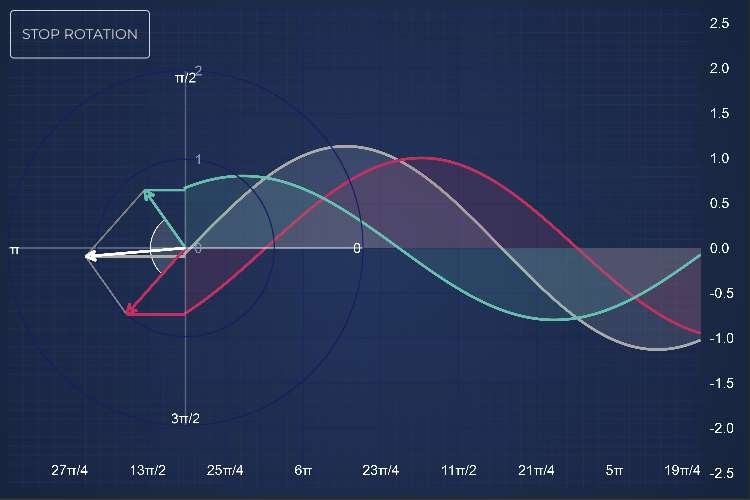
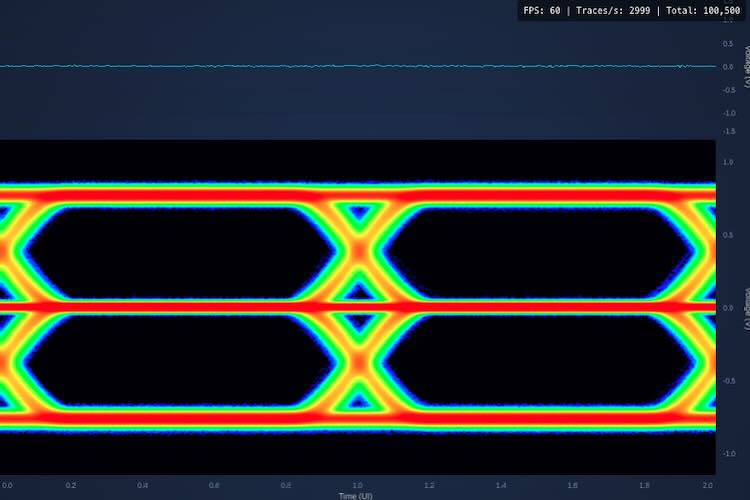
feat(example): add live waveform panel above eye diagram heatmap
Refactor eye diagram from a single heatmap to a two-panel layout using
SciChartSubSurface. The top 28% shows the most recent trace as a cyan
FastLineRenderableSeries; the bottom 72% retains the accumulating
UniformHeatmapRenderableSeries. Uses createSingle + createSubSurface to
share a single wasmContext, avoiding multi-surface init complexity.

Also adds per-trace amplitude scaling, DC offset, and independent
per-edge rise time variation for more realistic oscilloscope fuzz.
Update docs, markdown content, and preview screenshot accordingly.

diff --git a/Examples/src/components/Examples/FeaturedApps/ScientificCharts/EyeDiagramChart/exampleInfo.tsx b/Examples/src/components/Examples/FeaturedApps/ScientificCharts/EyeDiagramChart/exampleInfo.tsx
@@ -19,7 +19,7 @@ const metaData: IExampleMetadata =
                 metaDescription:
                     "See a real-time Eye Diagram rendered with SciChart.js. Simulates an MLT-3 signal — thousands of waveform traces accumulate into a heatmap density grid — like a real oscilloscope persistence display.",
                 markdownContent:
-                    "## Real-time Eye Diagram - JavaScript\n\n### Overview\nThis example demonstrates a **real-time Eye Diagram** (persistence display) using SciChart.js in JavaScript. An eye diagram is the standard tool for evaluating signal integrity in high-speed serial data links — it is produced by overlaying thousands of short waveform segments on a shared time axis, revealing the eye opening, jitter, noise, and inter-symbol interference (ISI) of the signal. This demo simulates an **MLT-3 (Multi-Level Transmit 3)** signal, the line code used in 100BASE-TX Ethernet, which cycles through three voltage levels (+1 V, 0 V, −1 V) to produce **two stacked eye openings** per display window.\n\n### Technical Implementation\nThe chart uses [SciChartSurface.create()](https://www.scichart.com/documentation/js/v5/2d-charts/surface/new-scichart-surface/#scichartsurfacecreate) to initialise the surface. Each animation frame, 50 simulated MLT-3 traces are generated with a four-state voltage machine, raised-cosine edge shaping (spanning ~35% of one UI — matching real 100BASE-TX rise time), per-crossing timing jitter (Gaussian, σ = 4 samples ≈ 2% UI), and Gaussian amplitude noise (σ = 0.012 V). Three crossing edges are placed at t = 0, t = 1 UI, and t = 2 UI. Trace samples are binned into a **400 × 200 accumulation grid** and passed to [UniformHeatmapDataSeries.setZValues()](https://www.scichart.com/documentation/js/v5/2d-charts/chart-types/uniform-heatmap-renderable-series/uniform-heatmap-chart-type/) each frame — a single WebGL texture upload regardless of how many traces have accumulated.\n\n### Features and Capabilities\nThe [UniformHeatmapRenderableSeries](https://www.scichart.com/documentation/js/v5/2d-charts/chart-types/uniform-heatmap-renderable-series/uniform-heatmap-chart-type/) renders the density grid with a custom [HeatmapColorMap](https://www.scichart.com/documentation/js/v5/2d-charts/chart-types/uniform-heatmap-renderable-series/uniform-heatmap-chart-type/) using an oscilloscope thermal palette (black → dark blue → cyan → green → yellow → red) that produces the classic scope persistence glow. A `log1p` scale keeps sparse edges visible while saturating the hot centre. A live stats overlay shows FPS, traces/second, and total accumulated traces.\n\n### Integration and Best Practices\nThe implementation uses a `requestAnimationFrame` loop with a clean start/stop/cleanup API. Resource cleanup (cancelling the rAF loop, removing the DOM overlay, calling `sciChartSurface.delete()`) is encapsulated in a single `cleanup()` function returned from `drawExample`, following the pattern used across all SciChart.js examples.",
+                    "## Real-time Eye Diagram - JavaScript\n\n### Overview\nThis example demonstrates a **real-time Eye Diagram** (persistence display) using SciChart.js in JavaScript. An eye diagram is the standard tool for evaluating signal integrity in high-speed serial data links — it is produced by overlaying thousands of short waveform segments on a shared time axis, revealing the eye opening, jitter, noise, and inter-symbol interference (ISI) of the signal. This demo simulates an **MLT-3 (Multi-Level Transmit 3)** signal, the line code used in 100BASE-TX Ethernet, which cycles through three voltage levels (+1 V, 0 V, −1 V) to produce **two stacked eye openings** per display window.\n\n### Technical Implementation\nThe layout uses [SciChartSurface.createSingle()](https://www.scichart.com/documentation/js/v5/2d-charts/surface/new-scichart-surface/#scichartsurfacecreatesingle) with two sub-charts created via `SciChartSubSurface.createSubSurface`. The top sub-chart (`Rect(0, 0, 1, 0.28)` relative) hosts a [FastLineRenderableSeries](https://www.scichart.com/documentation/js/v5/2d-charts/chart-types/line-chart/) showing the live waveform; the bottom sub-chart (`Rect(0, 0.28, 1, 0.72)`) hosts the [UniformHeatmapRenderableSeries](https://www.scichart.com/documentation/js/v5/2d-charts/chart-types/uniform-heatmap-renderable-series/uniform-heatmap-chart-type/) eye diagram. Both panels share a single `wasmContext`. Each animation frame, 50 simulated MLT-3 traces are generated with raised-cosine edge shaping (~35% of one UI), per-trace amplitude variation (σ = 2.5%) and DC offset (σ = 15 mV), independent per-edge timing jitter (σ = 4 samples ≈ 2% UI), and Gaussian amplitude noise (σ = 0.010 V). Trace samples are binned into a **400 × 200 accumulation grid** and passed to [UniformHeatmapDataSeries.setZValues()](https://www.scichart.com/documentation/js/v5/2d-charts/chart-types/uniform-heatmap-renderable-series/uniform-heatmap-chart-type/) each frame — a single WebGL texture upload regardless of how many traces have accumulated.\n\n### Features and Capabilities\nThe [UniformHeatmapRenderableSeries](https://www.scichart.com/documentation/js/v5/2d-charts/chart-types/uniform-heatmap-renderable-series/uniform-heatmap-chart-type/) renders the density grid with a custom [HeatmapColorMap](https://www.scichart.com/documentation/js/v5/2d-charts/chart-types/uniform-heatmap-renderable-series/uniform-heatmap-chart-type/) using an oscilloscope thermal palette (black → dark blue → cyan → green → yellow → red) that produces the classic scope persistence glow. A `log1p` scale keeps sparse edges visible while saturating the hot centre. Per-trace realism (amplitude scaling, DC offset, independent rise time variation) produces authentic oscilloscope fuzz at crossings and thick voltage rails. A live stats overlay shows FPS, traces/second, and total accumulated traces.\n\n### Integration and Best Practices\nThe implementation uses a `requestAnimationFrame` loop with a clean start/stop/cleanup API. Using `createSingle` with sub-charts instead of multiple `SciChartSurface.create` calls avoids WASM context conflicts and eliminates fragile DOM measurement for panel sizing. Resource cleanup (cancelling the rAF loop, removing the DOM overlay, calling `mainSurface.delete()`) is encapsulated in a single `cleanup()` function returned from `drawExample`, following the pattern used across all SciChart.js examples.",
             },
             react: {
                 subtitle:
@@ -29,7 +29,7 @@ const metaData: IExampleMetadata =
                 metaDescription:
                     "See a real-time Eye Diagram rendered with React and SciChart.js. Simulates an MLT-3 signal — thousands of waveform traces accumulate into a heatmap density grid — like a real oscilloscope persistence display.",
                 markdownContent:
-                    "## Real-time Eye Diagram - React\n\n### Overview\nThis React example demonstrates a **real-time Eye Diagram** (persistence display) built with SciChart.js. It simulates an **MLT-3 (Multi-Level Transmit 3)** serial data signal — the line code used in 100BASE-TX Ethernet — and renders the accumulating eye diagram as a 2D density heatmap, producing the oscilloscope persistence glow that signal-integrity engineers use to evaluate jitter, noise, and eye opening. MLT-3's three voltage levels (+1 V, 0 V, −1 V) create **two stacked eye openings** visible once enough traces have accumulated.\n\n### Technical Implementation\nThe chart initialises via `<SciChartReact initChart={drawExample}>` where `drawExample` creates a [UniformHeatmapDataSeries](https://www.scichart.com/documentation/js/v5/2d-charts/chart-types/uniform-heatmap-renderable-series/uniform-heatmap-chart-type/) backed by a 400 × 200 accumulation grid. Each frame, 50 MLT-3 traces (with raised-cosine transitions spanning ~35% of one UI, per-crossing timing jitter σ = 4 samples, and amplitude noise σ = 0.012 V) are generated and binned into the grid. The heatmap is updated via `setZValues()` — one GPU upload per frame. The `onDelete` prop calls `controls.cleanup()` which stops the animation loop and disposes the surface, following [React cleanup patterns for SciChart.js](https://www.scichart.com/documentation/js/v5/get-started/tutorials-react/tutorial-01-setting-up-project-with-scichart-react/).\n\n### Features and Capabilities\nA custom [HeatmapColorMap](https://www.scichart.com/documentation/js/v5/2d-charts/chart-types/uniform-heatmap-renderable-series/uniform-heatmap-chart-type/) using an oscilloscope thermal palette (black → dark blue → cyan → green → yellow → red) with `log1p` density scaling produces the classic scope persistence glow. A live overlay shows FPS, traces/second, and total accumulated traces. The animation starts immediately on mount and cleans up automatically on unmount.\n\n### Integration and Best Practices\nThe component is intentionally minimal — no React state is needed because the animation lifecycle is entirely managed by the `controls` object returned from `drawExample`. This pattern keeps the React wrapper decoupled from the SciChart initialisation logic and makes the same `drawExample` function reusable across React, Angular, and vanilla JavaScript targets.",
+                    "## Real-time Eye Diagram - React\n\n### Overview\nThis React example demonstrates a **real-time Eye Diagram** (persistence display) built with SciChart.js. It simulates an **MLT-3 (Multi-Level Transmit 3)** serial data signal — the line code used in 100BASE-TX Ethernet — and renders two panels: a live waveform line chart on top and an accumulating 2D density heatmap on the bottom, producing the oscilloscope persistence glow that signal-integrity engineers use to evaluate jitter, noise, and eye opening. MLT-3's three voltage levels (+1 V, 0 V, −1 V) create **two stacked eye openings** visible once enough traces have accumulated.\n\n### Technical Implementation\nThe chart initialises via `<SciChartReact initChart={drawExample}>` where `drawExample` creates a single surface with `SciChartSurface.createSingle` and two sub-charts via `SciChartSubSurface.createSubSurface`. The top sub-chart (`Rect(0, 0, 1, 0.28)`, relative coordinates) hosts a [FastLineRenderableSeries](https://www.scichart.com/documentation/js/v5/2d-charts/chart-types/line-chart/) for the live waveform; the bottom sub-chart (`Rect(0, 0.28, 1, 0.72)`) hosts a [UniformHeatmapDataSeries](https://www.scichart.com/documentation/js/v5/2d-charts/chart-types/uniform-heatmap-renderable-series/uniform-heatmap-chart-type/) backed by a 400 × 200 accumulation grid. Each frame, 50 MLT-3 traces (raised-cosine transitions ~35% UI, per-trace amplitude variation σ = 2.5%, DC offset σ = 15 mV, timing jitter σ = 4 samples, amplitude noise σ = 0.010 V) are generated and binned. The heatmap is updated via `setZValues()` — one GPU upload per frame. The `onDelete` prop calls `controls.cleanup()` following [React cleanup patterns for SciChart.js](https://www.scichart.com/documentation/js/v5/get-started/tutorials-react/tutorial-01-setting-up-project-with-scichart-react/).\n\n### Features and Capabilities\nA custom [HeatmapColorMap](https://www.scichart.com/documentation/js/v5/2d-charts/chart-types/uniform-heatmap-renderable-series/uniform-heatmap-chart-type/) using an oscilloscope thermal palette (black → dark blue → cyan → green → yellow → red) with `log1p` density scaling produces the classic scope persistence glow. Per-trace realism (amplitude scaling, DC offset, independent per-edge rise time) adds authentic oscilloscope fuzz. A live overlay shows FPS, traces/second, and total accumulated traces.\n\n### Integration and Best Practices\nThe component is intentionally minimal — no React state is needed because the animation lifecycle is entirely managed by the `controls` object returned from `drawExample`. Using `createSingle` with sub-charts instead of multiple surfaces avoids WASM context conflicts and eliminates fragile DOM measurement for panel sizing. This pattern keeps the React wrapper decoupled from the SciChart initialisation logic and makes the same `drawExample` function reusable across React, Angular, and vanilla JavaScript targets.",
             },
             angular: {
                 subtitle:
@@ -39,7 +39,7 @@ const metaData: IExampleMetadata =
                 metaDescription:
                     "See a real-time Eye Diagram rendered with Angular and SciChart.js. Simulates an MLT-3 signal — thousands of waveform traces accumulate into a heatmap density grid — like a real oscilloscope persistence display.",
                 markdownContent:
-                    "## Real-time Eye Diagram - Angular\n\n### Overview\nThis Angular example demonstrates a **real-time Eye Diagram** (persistence display) using SciChart.js and the [scichart-angular](https://www.npmjs.com/package/scichart-angular) package. It simulates an **MLT-3 (Multi-Level Transmit 3)** serial data signal — the line code used in 100BASE-TX Ethernet — and renders thousands of accumulating waveform traces as a heatmap density display, replicating the oscilloscope persistence effect used in signal-integrity analysis. MLT-3's four-state voltage machine (+1 V → 0 V → −1 V → 0 V) produces **two stacked eye openings** per display window.\n\n### Technical Implementation\nThe standalone Angular component uses `<scichart-angular [initChart]=\"initChart\">` to initialise the SciChart surface. The `drawExample` function creates a [UniformHeatmapDataSeries](https://www.scichart.com/documentation/js/v5/2d-charts/chart-types/uniform-heatmap-renderable-series/uniform-heatmap-chart-type/) backed by a 400 × 200 accumulation grid. Each animation frame, 50 MLT-3 traces (raised-cosine transitions spanning ~35% of one UI, Gaussian timing jitter σ = 4 samples, and amplitude noise σ = 0.012 V) are generated and binned into the grid, then pushed to the GPU via `setZValues()`. The animation starts automatically — lifecycle cleanup is managed via the `(onDelete)` event binding.\n\n### Features and Capabilities\nA custom [HeatmapColorMap](https://www.scichart.com/documentation/js/v5/2d-charts/chart-types/uniform-heatmap-renderable-series/uniform-heatmap-chart-type/) with `log1p` density scaling maps the accumulation grid to an oscilloscope thermal palette (black → dark blue → cyan → green → yellow → red). Frequently-traversed regions glow red (the eye centre and voltage rails), while sparse edge crossings fade to blue. A live stats overlay displays FPS, traces/second, and total accumulated traces.\n\n### Integration and Best Practices\nThe implementation follows Angular standalone component best practices. Resource cleanup (stopping the rAF loop, removing the DOM overlay, and calling `sciChartSurface.delete()`) is handled in a single `controls.cleanup()` call from the `(onDelete)` handler, preventing memory leaks when the component is destroyed.",
+                    "## Real-time Eye Diagram - Angular\n\n### Overview\nThis Angular example demonstrates a **real-time Eye Diagram** (persistence display) using SciChart.js and the [scichart-angular](https://www.npmjs.com/package/scichart-angular) package. It simulates an **MLT-3 (Multi-Level Transmit 3)** serial data signal — the line code used in 100BASE-TX Ethernet — and renders two panels: a live waveform line chart on top and an accumulating heatmap density display on the bottom, replicating the oscilloscope persistence effect used in signal-integrity analysis. MLT-3's four-state voltage machine (+1 V → 0 V → −1 V → 0 V) produces **two stacked eye openings** per display window.\n\n### Technical Implementation\nThe standalone Angular component uses `<scichart-angular [initChart]=\"initChart\">` to initialise the SciChart surface. The `drawExample` function creates a single surface with `SciChartSurface.createSingle` and two sub-charts via `SciChartSubSurface.createSubSurface`. The top sub-chart (`Rect(0, 0, 1, 0.28)`, relative coordinates) hosts a live [FastLineRenderableSeries](https://www.scichart.com/documentation/js/v5/2d-charts/chart-types/line-chart/) waveform; the bottom sub-chart (`Rect(0, 0.28, 1, 0.72)`) hosts a [UniformHeatmapDataSeries](https://www.scichart.com/documentation/js/v5/2d-charts/chart-types/uniform-heatmap-renderable-series/uniform-heatmap-chart-type/) backed by a 400 × 200 accumulation grid. Each animation frame, 50 MLT-3 traces (raised-cosine transitions ~35% UI, per-trace amplitude variation σ = 2.5%, DC offset σ = 15 mV, timing jitter σ = 4 samples, amplitude noise σ = 0.010 V) are generated and binned, then pushed to the GPU via `setZValues()`. The animation starts automatically — lifecycle cleanup is managed via the `(onDelete)` event binding.\n\n### Features and Capabilities\nA custom [HeatmapColorMap](https://www.scichart.com/documentation/js/v5/2d-charts/chart-types/uniform-heatmap-renderable-series/uniform-heatmap-chart-type/) with `log1p` density scaling maps the accumulation grid to an oscilloscope thermal palette (black → dark blue → cyan → green → yellow → red). Frequently-traversed regions glow red (the eye centre and voltage rails), while sparse edge crossings fade to blue. Per-trace realism (amplitude scaling, DC offset, independent rise time variation) adds authentic oscilloscope fuzz at crossings. A live stats overlay displays FPS, traces/second, and total accumulated traces.\n\n### Integration and Best Practices\nThe implementation follows Angular standalone component best practices. Using `createSingle` with sub-charts instead of multiple surfaces avoids WASM context conflicts and eliminates fragile DOM measurement for panel sizing. Resource cleanup (stopping the rAF loop, removing the DOM overlay, and calling `mainSurface.delete()`) is handled in a single `controls.cleanup()` call from the `(onDelete)` handler, preventing memory leaks when the component is destroyed.",
             },
         },
         documentationLinks: [

diff --git a/Examples/src/components/Examples/FeaturedApps/ScientificCharts/EyeDiagramChart/drawExample.ts b/Examples/src/components/Examples/FeaturedApps/ScientificCharts/EyeDiagramChart/drawExample.ts
@@ -1,11 +1,18 @@
 import {
     EAutoRange,
+    ESubSurfacePositionCoordinateMode,
+    FastLineRenderableSeries,
     HeatmapColorMap,
+    I2DSubSurfaceOptions,
     NumberRange,
     NumericAxis,
+    Rect,
+    SciChartSubSurface,
     SciChartSurface,
+    Thickness,
     UniformHeatmapDataSeries,
     UniformHeatmapRenderableSeries,
+    XyDataSeries,
 } from "scichart";
 import { appTheme } from "../../../theme";
 
@@ -122,46 +129,91 @@ export function binTrace(grid: Float32Array, trace: Float32Array): void {
 // ---------------------------------------------------------------------------
 
 export async function drawExample(rootElement: string | HTMLDivElement) {
-    const { sciChartSurface, wasmContext } = await SciChartSurface.create(rootElement, {
+    // Single surface with two sub-charts avoids multi-surface init complexity
+    const { sciChartSurface: mainSurface, wasmContext } = await SciChartSurface.createSingle(
+        rootElement,
+        { theme: appTheme.SciChartJsTheme }
+    );
+
+    // Main surface axes (required by SciChart even when hidden)
+    mainSurface.xAxes.add(new NumericAxis(wasmContext, { isVisible: false, id: "mainX" }));
+    mainSurface.yAxes.add(new NumericAxis(wasmContext, { isVisible: false, id: "mainY" }));
+
+    // ── Top sub-chart: live waveform (top 28%) ────────────────────────────────
+
+    const lineSubOptions: I2DSubSurfaceOptions = {
         theme: appTheme.SciChartJsTheme,
-    });
+        position: new Rect(0, 0, 1, 0.28),
+        coordinateMode: ESubSurfacePositionCoordinateMode.Relative,
+        padding: Thickness.fromNumber(2),
+    };
+    const lineSurface = SciChartSubSurface.createSubSurface(mainSurface, lineSubOptions);
 
-    // X Axis — time in UI units
-    sciChartSurface.xAxes.add(
-        new NumericAxis(wasmContext, {
-            axisTitle: "Time",
-            axisTitleStyle: { fontSize: 11 },
-            labelStyle: { fontSize: 10 },
-            visibleRange: new NumberRange(0, 2),
-            autoRange: EAutoRange.Never,
-            drawMajorGridLines: false,
-            drawMinorGridLines: false,
+    lineSurface.xAxes.add(new NumericAxis(wasmContext, {
+        isVisible: false,
+        visibleRange: new NumberRange(0, 2),
+        autoRange: EAutoRange.Never,
+    }));
+
+    lineSurface.yAxes.add(new NumericAxis(wasmContext, {
+        axisTitle: "Voltage (V)",
+        axisTitleStyle: { fontSize: 11 },
+        labelStyle: { fontSize: 10 },
+        visibleRange: new NumberRange(-1.5, 1.5),
+        autoRange: EAutoRange.Never,
+        drawMajorGridLines: true,
+        drawMinorGridLines: false,
+    }));
+
+    const TRACE_LEN = 400;
+    const xTrace = Array.from({ length: TRACE_LEN }, (_, i) => (i / (TRACE_LEN - 1)) * 2);
+    const yBuffer = new Array<number>(TRACE_LEN).fill(0);
+
+    const lineDs = new XyDataSeries(wasmContext, { xValues: xTrace, yValues: yBuffer });
+    lineSurface.renderableSeries.add(
+        new FastLineRenderableSeries(wasmContext, {
+            dataSeries: lineDs,
+            stroke: "#00E5FF",
+            strokeThickness: 1.5,
         })
     );
 
-    // Y Axis — voltage
-    sciChartSurface.yAxes.add(
-        new NumericAxis(wasmContext, {
-            axisTitle: "Voltage",
-            axisTitleStyle: { fontSize: 11 },
-            labelStyle: { fontSize: 10 },
-            visibleRange: new NumberRange(-1.15, 1.15),
-            autoRange: EAutoRange.Never,
-            drawMajorGridLines: false,
-            drawMinorGridLines: false,
-        })
-    );
+    // ── Bottom sub-chart: heatmap eye diagram (bottom 72%) ────────────────────
 
-    // Accumulation grid: 400 cols × 200 rows, col-major
+    const heatSubOptions: I2DSubSurfaceOptions = {
+        theme: appTheme.SciChartJsTheme,
+        position: new Rect(0, 0.28, 1, 0.72),
+        coordinateMode: ESubSurfacePositionCoordinateMode.Relative,
+        padding: Thickness.fromNumber(2),
+    };
+    const heatSurface = SciChartSubSurface.createSubSurface(mainSurface, heatSubOptions);
+
+    heatSurface.xAxes.add(new NumericAxis(wasmContext, {
+        axisTitle: "Time (UI)",
+        axisTitleStyle: { fontSize: 11 },
+        labelStyle: { fontSize: 10 },
+        visibleRange: new NumberRange(0, 2),
+        autoRange: EAutoRange.Never,
+        drawMajorGridLines: false,
+        drawMinorGridLines: false,
+    }));
+
+    heatSurface.yAxes.add(new NumericAxis(wasmContext, {
+        axisTitle: "Voltage (V)",
+        axisTitleStyle: { fontSize: 11 },
+        labelStyle: { fontSize: 10 },
+        visibleRange: new NumberRange(-1.15, 1.15),
+        autoRange: EAutoRange.Never,
+        drawMajorGridLines: false,
+        drawMinorGridLines: false,
+    }));
+
     const COLS = 400;
     const ROWS = 200;
     const grid = new Float32Array(COLS * ROWS);
-
-    // zValuesLog: 200 rows × 400 cols (row-major), for setZValues
     const zValuesLog: number[][] = Array.from({ length: ROWS }, () => new Array(COLS).fill(0));
 
-    // Heatmap data series
-    const dataSeries = new UniformHeatmapDataSeries(wasmContext, {
+    const heatDs = new UniformHeatmapDataSeries(wasmContext, {
         xStart: 0,
         xStep: 2 / (COLS - 1),
         yStart: -1.15,
@@ -169,52 +221,46 @@ export async function drawExample(rootElement: string | HTMLDivElement) {
         zValues: zValuesLog,
     });
 
-    // Heatmap renderable series
-    const renderableSeries = new UniformHeatmapRenderableSeries(wasmContext, {
-        dataSeries,
-        useLinearTextureFiltering: true,
-        colorMap: new HeatmapColorMap({
-            minimum: 0,
-            maximum: 8,
-            gradientStops: [
-                { offset: 0,    color: "#000000" },
-                { offset: 0.15, color: "#0000FF" },
-                { offset: 0.4,  color: "#00FFFF" },
-                { offset: 0.6,  color: "#00FF00" },
-                { offset: 0.8,  color: "#FFFF00" },
-                { offset: 1,    color: "#FF0000" },
-            ],
-        }),
-    });
+    heatSurface.renderableSeries.add(
+        new UniformHeatmapRenderableSeries(wasmContext, {
+            dataSeries: heatDs,
+            useLinearTextureFiltering: true,
+            colorMap: new HeatmapColorMap({
+                minimum: 0,
+                maximum: 8,
+                gradientStops: [
+                    { offset: 0,    color: "#000000" },
+                    { offset: 0.15, color: "#0000FF" },
+                    { offset: 0.4,  color: "#00FFFF" },
+                    { offset: 0.6,  color: "#00FF00" },
+                    { offset: 0.8,  color: "#FFFF00" },
+                    { offset: 1,    color: "#FF0000" },
+                ],
+            }),
+        })
+    );
 
-    sciChartSurface.renderableSeries.add(renderableSeries);
-
-    // Stats overlay
-    const statsDiv = document.createElement("div");
-    statsDiv.style.cssText = [
-        "position:absolute",
-        "top:8px",
-        "right:8px",
-        "font-family:monospace",
-        "font-size:12px",
-        "color:#ffffff",
-        "background:rgba(0,0,0,0.5)",
-        "padding:4px 8px",
-        "border-radius:4px",
-        "pointer-events:none",
-        "z-index:100",
-    ].join(";");
-    statsDiv.textContent = "FPS: -- | Traces/s: -- | Total: 0";
+    // ── Stats overlay ─────────────────────────────────────────────────────────
 
     const container = typeof rootElement === "string"
         ? document.getElementById(rootElement)
         : rootElement;
-    if (container) {
-        container.style.position = "relative";
-        container.appendChild(statsDiv);
-    }
 
-    // Animation state
+    if (container) container.style.position = "relative";
+
+    const statsDiv = document.createElement("div");
+    statsDiv.style.cssText = [
+        "position:absolute", "top:8px", "right:8px",
+        "font-family:monospace", "font-size:12px", "color:#ffffff",
+        "background:rgba(0,0,0,0.5)", "padding:4px 8px",
+        "border-radius:4px", "pointer-events:none", "z-index:100",
+    ].join(";");
+    statsDiv.textContent = "FPS: -- | Traces/s: -- | Total: 0";
+
+    if (container) container.appendChild(statsDiv);
+
+    // ── Animation loop ────────────────────────────────────────────────────────
+
     let rafHandle: number | null = null;
     let totalTraces = 0;
     let frameCount = 0;
@@ -222,29 +268,36 @@ export async function drawExample(rootElement: string | HTMLDivElement) {
     const TRACES_PER_FRAME = 50;
 
     function animate() {
-        const frameStart = performance.now();
+        let lastTrace: Float32Array | null = null;
 
-        // Generate and bin 50 traces this frame
         for (let t = 0; t < TRACES_PER_FRAME; t++) {
             const trace = generateTrace();
             binTrace(grid, trace);
+            lastTrace = trace;
         }
         totalTraces += TRACES_PER_FRAME;
 
-        // Update zValuesLog from grid (log1p scaling)
+        // Replace line chart data with the last trace from this batch
+        if (lastTrace) {
+            for (let i = 0; i < TRACE_LEN; i++) {
+                yBuffer[i] = lastTrace[i];
+            }
+            lineDs.clear();
+            lineDs.appendRange(xTrace, yBuffer);
+        }
+
+        // Update heatmap
         for (let col = 0; col < COLS; col++) {
             for (let row = 0; row < ROWS; row++) {
                 zValuesLog[row][col] = Math.log1p(grid[col * ROWS + row]);
             }
         }
+        heatDs.setZValues(zValuesLog);
 
-        dataSeries.setZValues(zValuesLog);
-
-        // Update stats every 30 frames
         frameCount++;
         if (frameCount % 30 === 0) {
             const now = performance.now();
-            const elapsed = (now - lastStatsTime) / 1000; // seconds
+            const elapsed = (now - lastStatsTime) / 1000;
             const fps = Math.round(30 / elapsed);
             const tracesPerSec = Math.round((30 * TRACES_PER_FRAME) / elapsed);
             lastStatsTime = now;
@@ -266,21 +319,16 @@ export async function drawExample(rootElement: string | HTMLDivElement) {
         }
     }
 
-    // Start automatically
     startAnimation();
 
     function cleanup() {
         stopAnimation();
         if (container) container.removeChild(statsDiv);
-        sciChartSurface.delete();
+        mainSurface.delete();
     }
 
     return {
-        sciChartSurface,
-        controls: {
-            startAnimation,
-            stopAnimation,
-            cleanup,
-        },
+        sciChartSurface: mainSurface,
+        controls: { startAnimation, stopAnimation, cleanup },
     };
 }

diff --git a/Examples/src/components/Examples/FeaturedApps/ScientificCharts/EyeDiagramChart/README.md b/Examples/src/components/Examples/FeaturedApps/ScientificCharts/EyeDiagramChart/README.md
@@ -4,16 +4,25 @@
 
 An **eye diagram** is the standard oscilloscope tool for evaluating signal integrity in high-speed serial data links. It is produced by overlaying thousands of short waveform segments — each one a 2-UI (two bit-period) window sliced from a continuous data stream — on a single time axis. When many traces accumulate, the open central regions (the "eye openings") become visible, along with the smearing caused by inter-symbol interference (ISI), timing jitter, and noise.
 
-This demo simulates an **MLT-3 (Multi-Level Transmit 3)** serial data signal — the line code used in 100BASE-TX Ethernet — entirely in the browser and renders the accumulating eye diagram as a **2D density heatmap** using `UniformHeatmapRenderableSeries`. The result is an oscilloscope-style **persistence display**: frequently-traversed regions glow red/yellow, while rarely-visited edges fade to blue. MLT-3 cycles through three voltage levels (+1 V, 0 V, −1 V) via a four-state machine, producing **two stacked eye openings** per display window.
+This demo simulates an **MLT-3 (Multi-Level Transmit 3)** serial data signal — the line code used in 100BASE-TX Ethernet — entirely in the browser and renders two panels in a single SciChart surface:
+
+- **Top panel** — a live `FastLineRenderableSeries` waveform showing the most recently generated trace
+- **Bottom panel** — the accumulating `UniformHeatmapRenderableSeries` eye diagram, with an oscilloscope-style persistence display (red/yellow = frequently traversed, blue = rarely visited)
+
+MLT-3 cycles through three voltage levels (+1 V, 0 V, −1 V) via a four-state machine, producing **two stacked eye openings** per display window.
 
 ### Technical Implementation
+
+**Two-panel layout** — Both panels live inside a single `SciChartSurface.createSingle` surface. Sub-charts are created with `SciChartSubSurface.createSubSurface`, positioned using `Rect` with `ESubSurfacePositionCoordinateMode.Relative`: the line chart occupies the top 28% (`Rect(0, 0, 1, 0.28)`) and the heatmap the bottom 72% (`Rect(0, 0.28, 1, 0.72)`). All axes, series, and data objects share the single `wasmContext` returned by `createSingle`.
 
 **Signal generation** — Each trace is built from a random MLT-3 state sequence (pprev, prev, curr, next) to capture both transitions in the 2-UI window:
 
 - Voltage levels: +1 V, 0 V, −1 V (four states: [+1, 0, −1, 0])
+- Per-trace **amplitude scaling** (σ = 2.5%) and **DC offset** (σ = 15 mV) for realistic trace-to-trace variation
 - **Raised-cosine transitions** spanning ~35% of one UI — matching real 100BASE-TX rise time
+- Independent per-edge **rise time variation** (σ = 2.8 samples) for realistic fuzz at crossings
 - Three crossing edges at t = 0, t = 1 UI, t = 2 UI with independent per-edge **timing jitter** (Gaussian, σ = 4.0 samples ≈ 2% of UI)
-- **Amplitude noise** (Gaussian, σ = 0.012 V) added to each sample
+- **Amplitude noise** (Gaussian, σ = 0.010 V) added to each sample
 
 **Heatmap accumulation** — Each trace's 400 samples are binned into a **400 × 200 accumulation grid** (time × voltage). Grid counts are log-scaled (`log1p`) before being passed to `UniformHeatmapDataSeries.setZValues()` each frame. The log scale keeps early traces visible while the hot centre saturates gracefully.
 
@@ -23,7 +32,9 @@ This demo simulates an **MLT-3 (Multi-Level Transmit 3)** serial data signal —
 
 ### Features
 
+- **Two-panel layout** using SciChart SubCharts API — live waveform on top, persistence heatmap on bottom
 - Real-time MLT-3 eye diagram with two stacked eye openings, ISI, jitter, and noise
+- Per-trace realism: amplitude variation, DC offset, independent per-edge rise time variation
 - Oscilloscope thermal persistence display aesthetic (black → blue → cyan → yellow → red)
 - 50 traces × 60 FPS = ~3,000 traces/second accumulation
 - Stats overlay: FPS, Traces/s, Total traces
